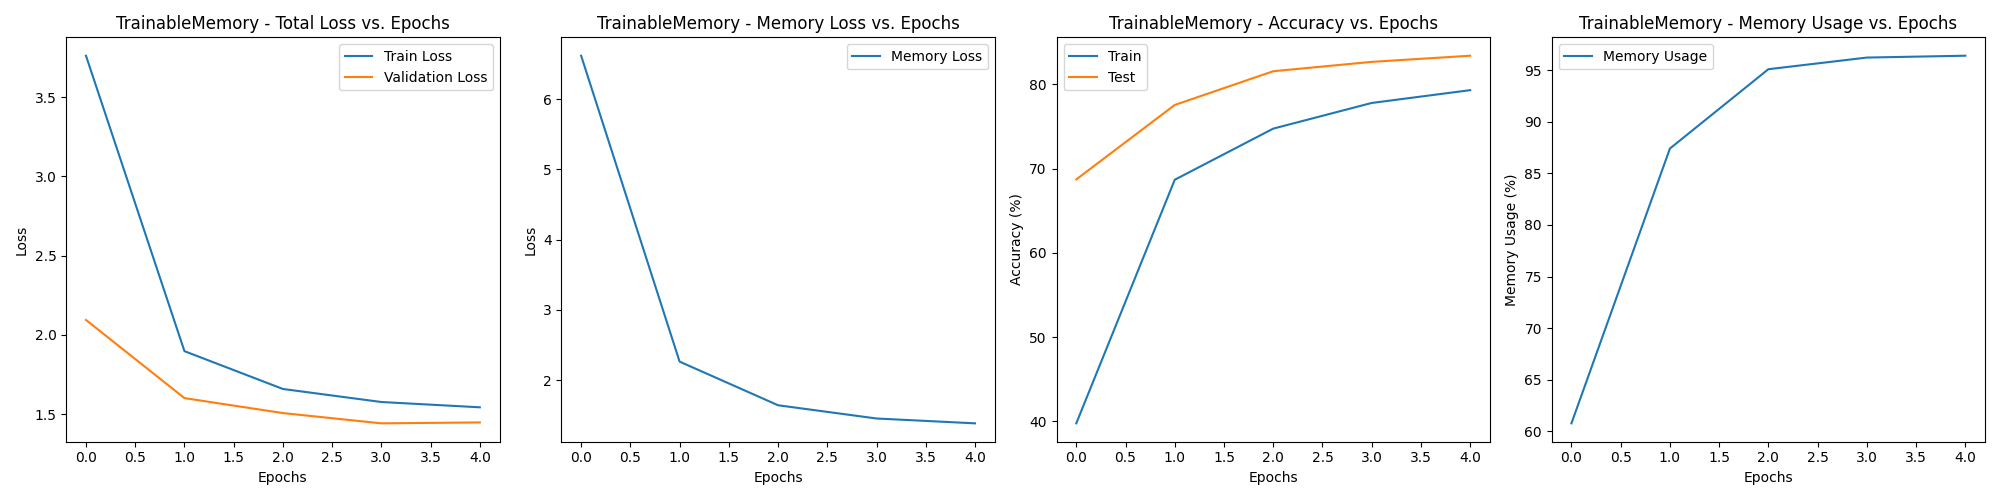
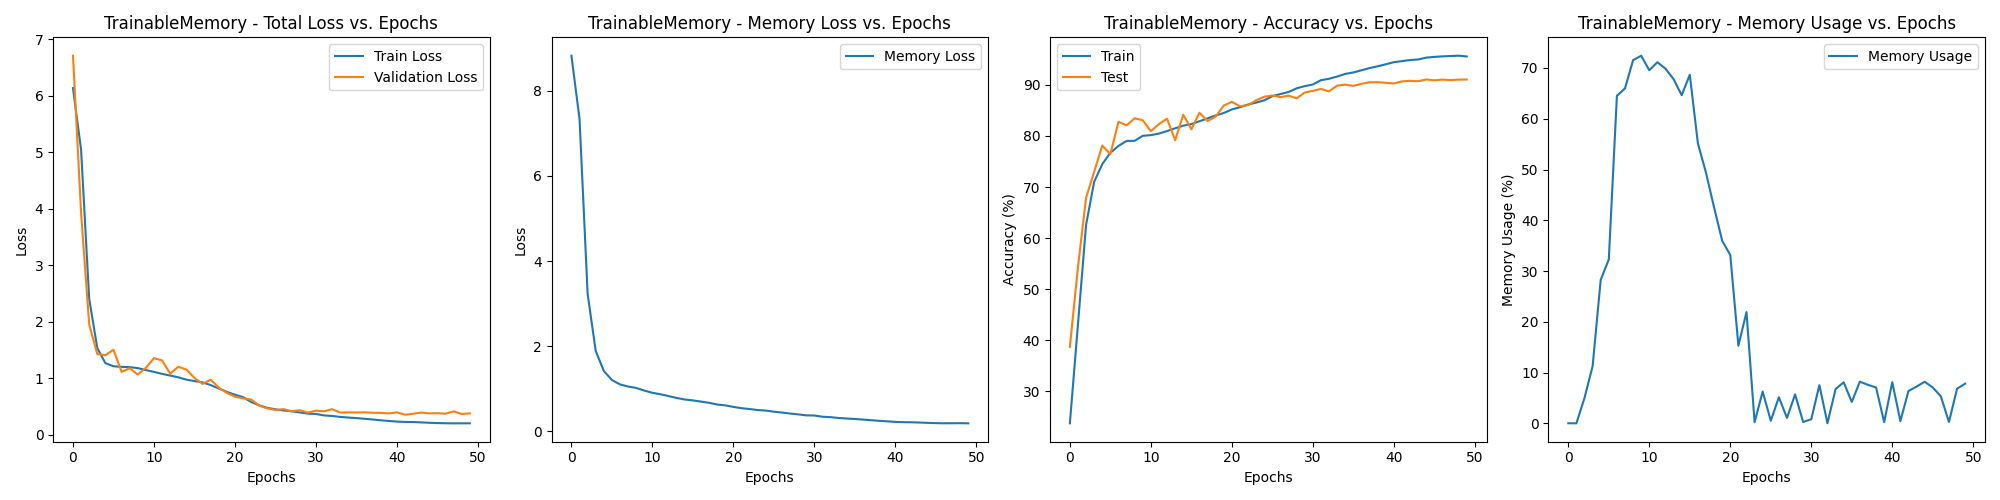
smaller memory tests

diff --git a/memory_assisted_classifier.py b/memory_assisted_classifier.py
@@ -855,10 +855,10 @@ def run_cached_memory_train_and_test(
     
 
 if __name__ == "__main__":
-    memory_size = 10000
+    memory_size = 8000
     batch_size = 128
-    confidence_threshold = 0.85
-    num_epochs = 5
+    confidence_threshold = 0.95
+    num_epochs = 50
     memory_loss_weight = 0.4
     model_name = 'resnet50'
     run_cached_memory_train_and_test(
